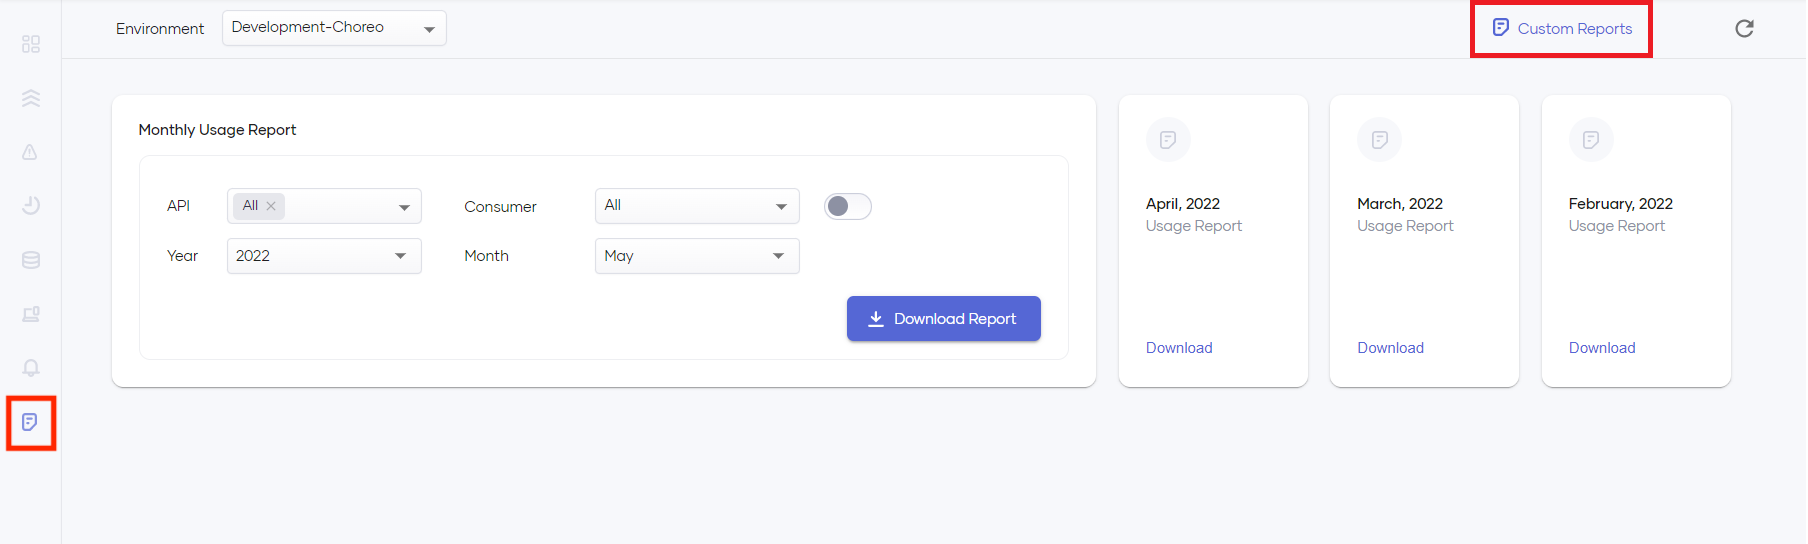
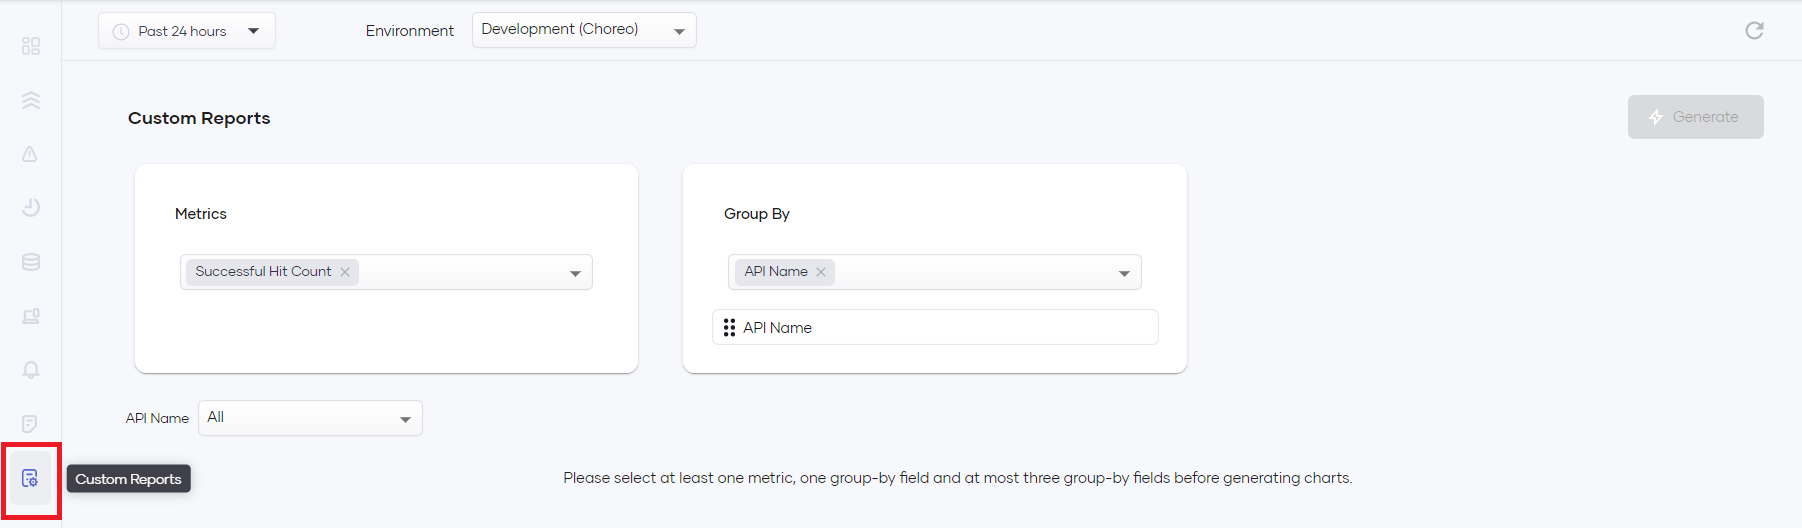
[Insights] Update Custom Reports docs

diff --git a/en/docs/insights/generate-custom-reports.md b/en/docs/insights/generate-custom-reports.md
@@ -2,9 +2,39 @@
 
 Choreo insights allow you to generate custom reports to view the information that is important to you to make timely decisions for the betterment of your business. With custom reports, you can generate reports for a set of metrics of your choice and aggregate results by specific fields. Once generated, the metrics can be filtered out using any selected group-by filters. Custom reports support three visualizations: overtime charts, pie charts, and tables.
 
+## Metrics
+
+Choreo Insights allow you to retrieve data for the following metrics,
+
+ - Successful Hit Count
+ - Response Cache Hits
+ - Request Mediation Latency
+ - Response Mediation Latency
+ - Backend Latency
+ - Total Latency
+ - API Errors
+ - Target Errors
+
+## Group-by Fields
+
+Group-by Fields determine how the metric data should be grouped. As an example you could retrieve Successful Hit Count **grouped by API Name**
+
+Choreo Insights allow you to group metric data by the following fields,
+
+ - API Name
+ - API Version
+ - API Resource Template
+ - API Method
+ - API Creator
+ - Application
+ - Application Owner
+ - Destination
+ - User Agent
+ - Platform
+
 To generate a custom report, follow the steps below:
 
-1. Click on **Reports** from the left navigation and select **Custom Reports**.
+1. Click on **Custom Reports** from the left navigation 
 
     ![Select Custom Reports](../assets/img/insights/custom-reports-step-1.png){.cInlineImage-full}
 
@@ -23,3 +53,11 @@ To generate a custom report, follow the steps below:
 6. Click **Generate**.
 
     ![Generate](../assets/img/insights/custom-reports-step-6.png){.cInlineImage-full}
+
+## Download Report Data
+
+Choreo Insights allow you to download custom report data for each chart as either in **PDF** or **CSV** format. To download report data, continue on with the following steps, 
+
+7. Click on the download button above any of the charts and select the file type you want to download the report in
+
+    ![Download Report](../assets/img/insights/custom-reports-step-7.png){.cInlineImage-full}
